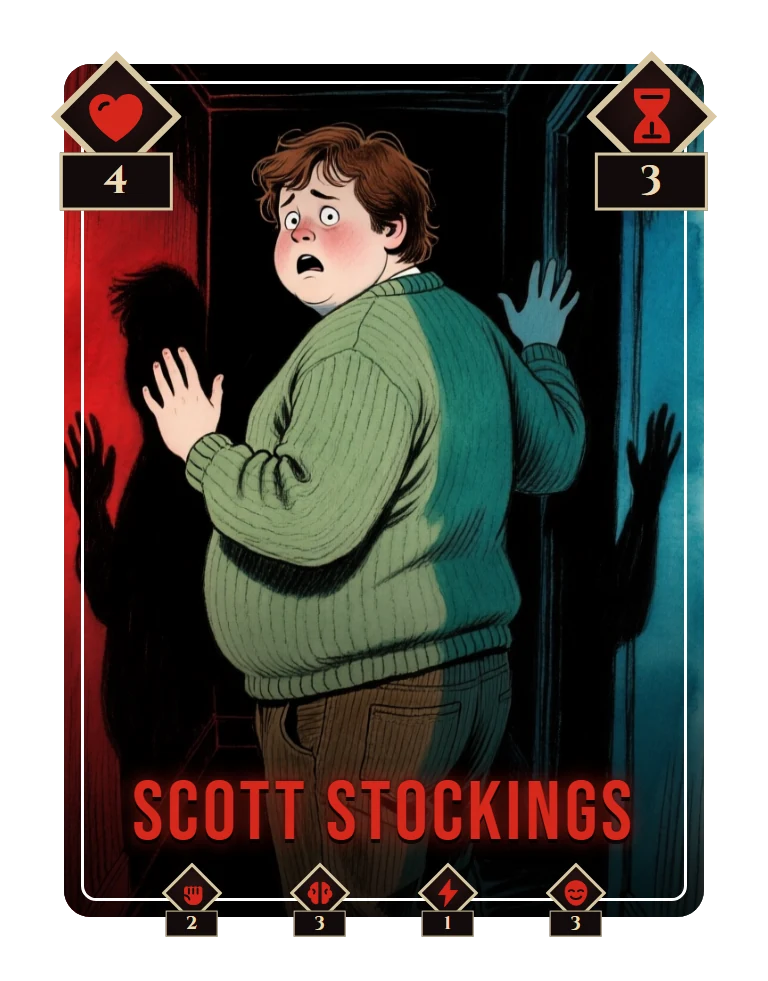
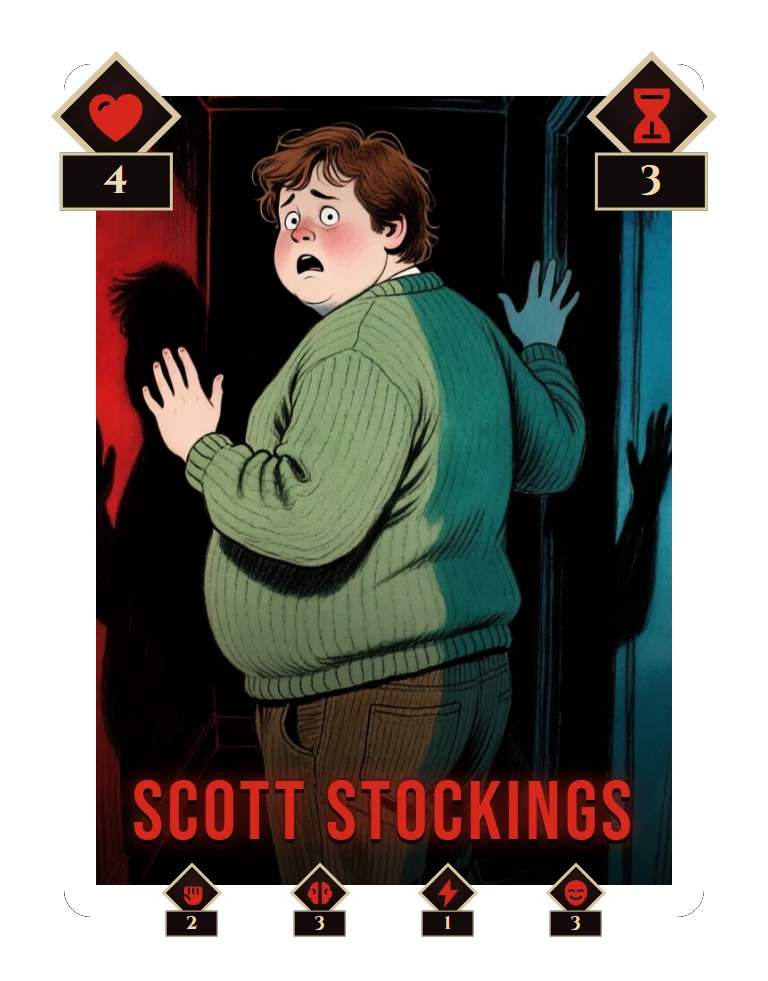
Carte: cornice bianca spessa dal bordo esterno fino alla linea (carte personaggio ri-esportate)

diff --git a/tools/galleria/editor.js b/tools/galleria/editor.js
@@ -286,7 +286,7 @@ const Editor = (() => {
       aggiornaValori = () => { dim.set(e.dim); x.set(e.x); y.set(e.y); };
     } else if (e.tipo === "cornice") {
       const col = Object.assign(document.createElement("input"), { type: "color", value: e.colore }); col.oninput = () => { e.colore = col.value; cambiato(); };
-      const ins = slider(0, 25, 0.1, e.inset, v => (e.inset = v), v => v.toFixed(1)), sp = slider(0.05, 3, 0.05, e.spessore, v => (e.spessore = v), v => v.toFixed(2));
+      const ins = slider(0, 25, 0.1, e.inset, v => (e.inset = v), v => v.toFixed(1)), sp = slider(0.05, 12, 0.05, e.spessore, v => (e.spessore = v), v => v.toFixed(2));
       const op = slider(0, 1, 0.01, e.opacita, v => (e.opacita = v), v => Math.round(v * 100) + "%"), ra = slider(0, 15, 0.1, e.raggio, v => (e.raggio = v), v => v.toFixed(1));
       p.append(riga("Margine", ins), riga("Spessore", sp), riga("Colore", col), riga("Opacità", op), riga("Angoli tondi", ra));
       aggiornaValori = () => ins.set(e.inset);

diff --git a/tools/galleria/carta.js b/tools/galleria/carta.js
@@ -22,7 +22,7 @@ const Carta = (() => {
     const els = [
       { id: "immagine", tipo: "immagine", nome: "Immagine", visibile: true },
       { id: "sfumatura", tipo: "sfumatura", nome: "Sfumatura", visibile: true, altezza: 48, intensita: 1 },
-      { id: "cornice", tipo: "cornice", nome: "Cornice", visibile: true, inset: 2.6, spessore: 0.6, colore: "#ffffff", opacita: 1, raggio: 2.4 },
+      { id: "cornice", tipo: "cornice", nome: "Cornice", visibile: true, inset: 0, spessore: 5, colore: "#ffffff", opacita: 1, raggio: 4.2 },
       { id: "nome", tipo: "testo", nome: "Nome", visibile: true, testo: null, x: 50, y: vert ? 88 : 86, dim: vert ? 13 : 11,
         font: "Bebas Neue", colore: "#d6281c", spaziatura: 0.6, maiuscolo: true, alone: true, rot: 0 },
     ];
